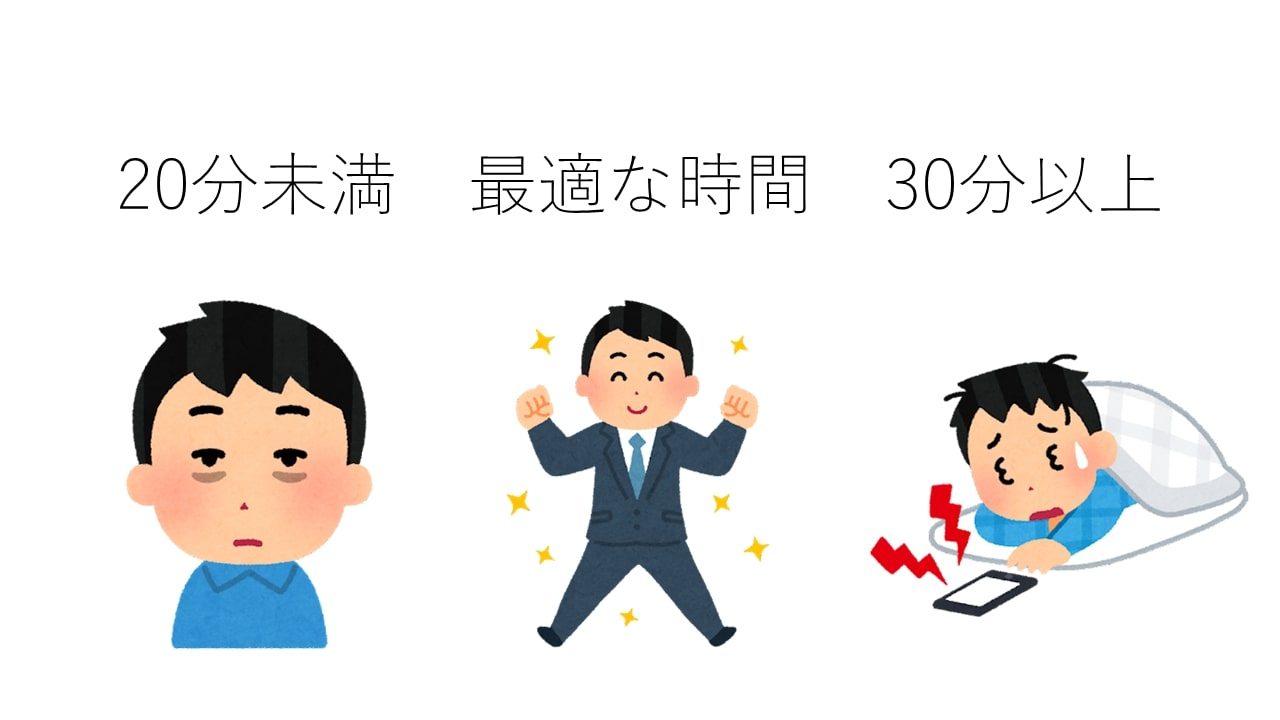
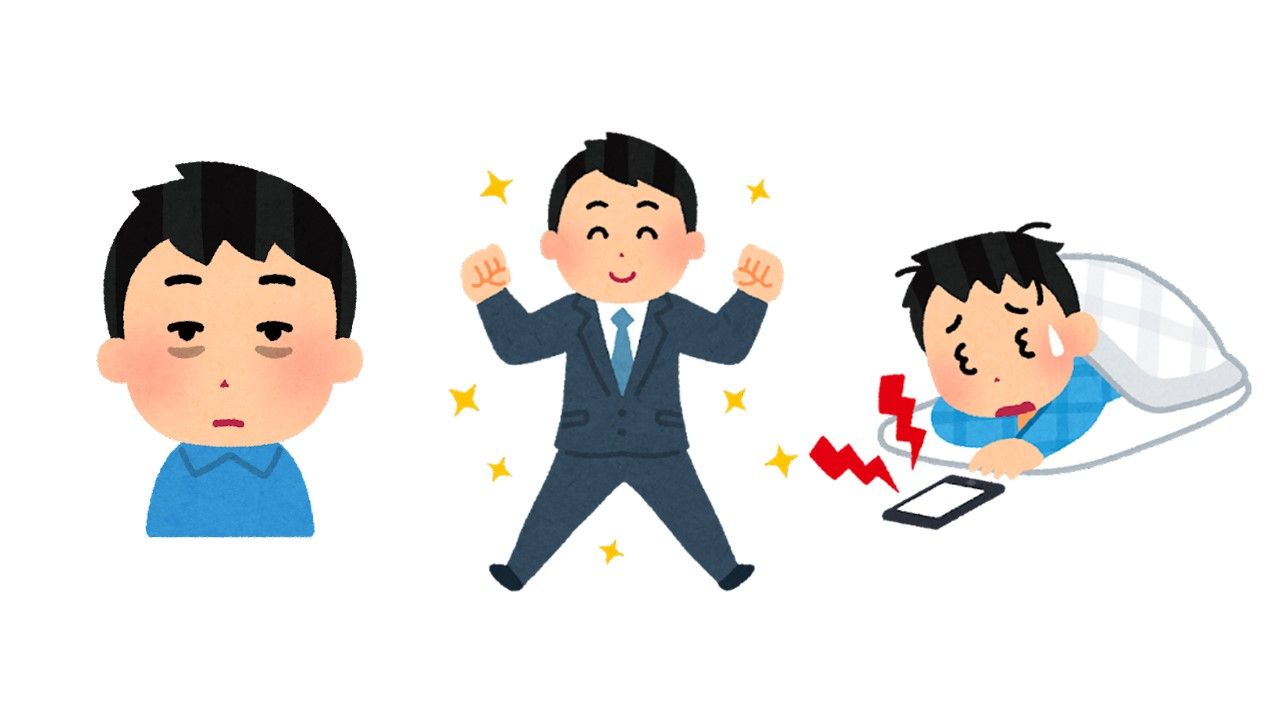
【update】 add quiz gazo

diff --git a/study.html b/study.html
@@ -46,7 +46,7 @@
         <p>テスト前は寝た方が良い成績を残せるというのは本当なのでしょうか？　記憶には名前や言葉の綴りを覚える宣言的記憶と、楽器の演奏や車の運転といった簡単に言い表せない手続き記憶に大きく分けられます。認知症の患者が記憶を忘れても日常の行動が行えるのは、手続き記憶が脳の他の部位でも覚える事が出来るからなんです。<br><br>
           睡眠には、一般的には浅い眠りと呼ばれるレム睡眠と深い眠りと呼ばれるノンレム睡眠に簡単に分けることが出来ますが、レム睡眠は体の状態が起きているときと近いため浅い眠りと呼ばれるだけで脳自体は外部からの刺激をシャットダウンしていますし、身体を休めるという役割があります。<br><br>
           ノンレム睡眠は睡眠段階と呼ばれる4つのフェーズに分けられ、1から4に下るにつれて睡眠が深くなっていきます。睡眠段階1ではウトウトと瞼が下がってもうすぐで眠れるという状態、睡眠段階2では名前を呼びかけられたりするとハッと起きる状態、睡眠段階3、4では深く眠り脳も完全に休んでいる状態に移ります。</p>
-        <img class="img-fluid pb-3 mx-auto d-block" src="assets/images/sleep_lism_quiz_6.png" alt="サンプル画像">
+        <img class="img-fluid pb-3 mx-auto d-block" src="assets/images/sleep_lism.jpg" alt="サンプル画像">
       </section>  
       
       <section class="container mb-3">
